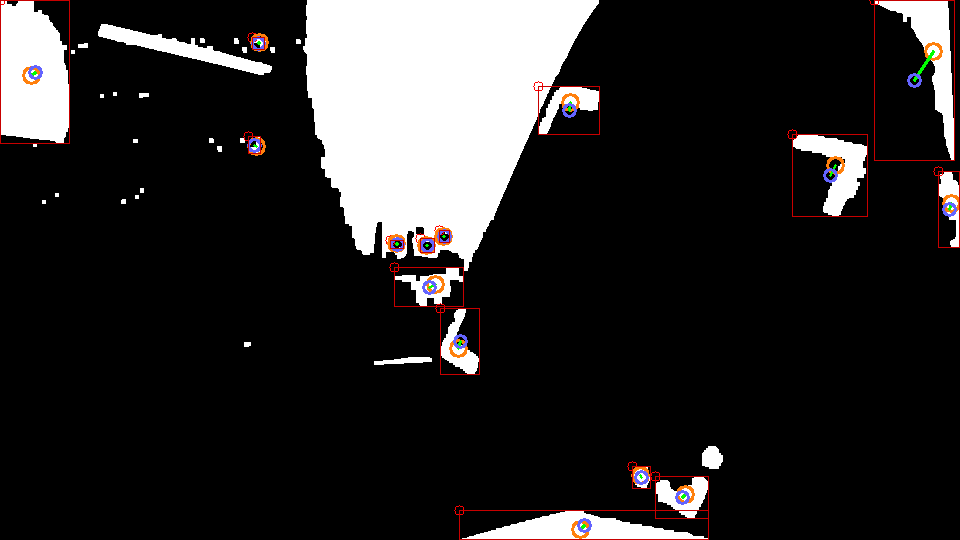
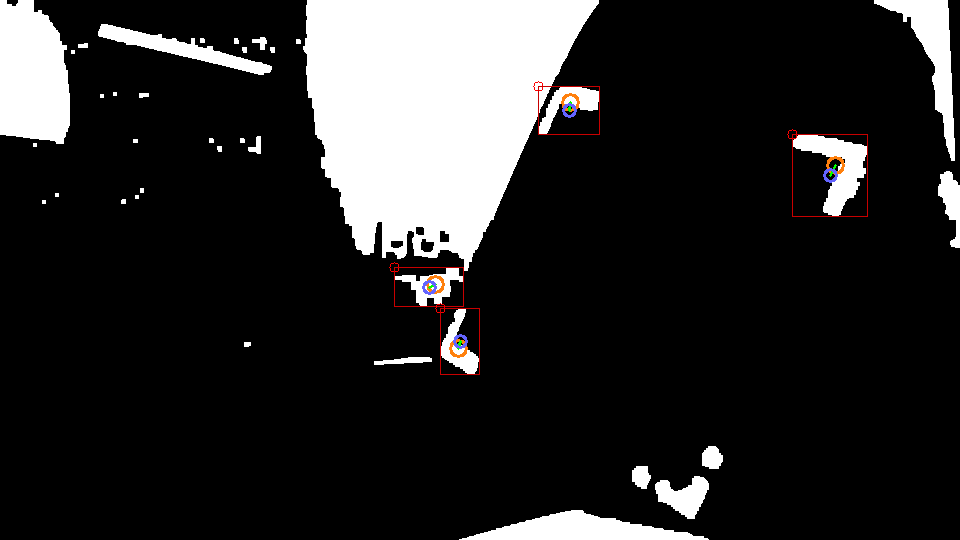
Updates - Drew

diff --git a/main/subsystems/nugget_receptacle/receptacle_pose.py b/main/subsystems/nugget_receptacle/receptacle_pose.py
@@ -158,9 +158,19 @@ def is_l_shape(contour, min_x_percent = 0.05, min_y_percent = 0.05, or_=False) -
         #print(f"x={center_x}, y={center_y}, cx={cx}, cy={cy}, x_size={w}, y_size={h}")
         print(f"x={center_x}, y={center_y}, cx is {percent_off_x*100 :.2f}% off, cy is {percent_off_y*100 :.2f}% off.")
 
-    is_l = (abs(percent_off_x)>min_x_percent) and (abs(percent_off_y)>min_y_percent) or (
-        (or_)
-        and ((abs(percent_off_x)>min_x_percent) or (abs(percent_off_y)>min_y_percent)))
+    is_l = (
+        #    (abs(percent_off_x)>0) 
+        #and (abs(percent_off_y)>0)
+         (abs(percent_off_x)>min_x_percent) 
+        and (abs(percent_off_y)>min_y_percent) 
+        or (
+            (or_)
+            and (
+                   (abs(percent_off_x)>min_x_percent) 
+                or (abs(percent_off_y)>min_y_percent)
+                )
+            )
+    )
     return is_l, percent_off_x, percent_off_y
 
 
@@ -176,7 +186,12 @@ def filter_contours(contours:list, screensize=(1920,1024), filter_l=False):
 
         # If contour is certain shape
         # (both dimensions > 8px, at least one dimension > 10px)
-        if (w>8 and h>8) and (w>10 or h>10) and (rect_area<max_rect_area) and (is_l_shape(contour, or_=True)[0] or not(filter_l)):
+        if (
+                (w>8 and h>8) 
+            and (w>10 or h>10) 
+            and (rect_area < max_rect_area) 
+            and (is_l_shape(contour, or_=True)[0] or not(filter_l))
+            ):
             contours_rtn.append(contour) # Add it to the return list
 
 
@@ -246,7 +261,38 @@ def draw_corners(img, corners, imgpts):
     img = cv2.line(img, corner, tuple(imgpts[2].ravel()), (0,0,255), 5)
     return img
 
-# Find the average pixel location and see how far that differs from the center of the overall bounding box
+
+def filter_n_contours(contours:list, n:int) -> list:
+    """ Filters out n number of contours for likely candidates of the four corners of the receptacle. """
+    if len(contours)==0: return [] # Prevent errors
+    
+    rtnlist = []
+    contour_sizes = []
+
+    for contour in contours:
+        x, y, w, h = cv2.boundingRect(contour)
+        contour_sizes.append(w*h)
+
+    for i in range(n):
+        try:
+            if len(contours)==0: break
+            biggest_contour = contours[contour_sizes.index(max(contour_sizes))]
+            rtnlist.append(biggest_contour)
+            del contours[contour_sizes.index(max(contour_sizes))]
+            contour_sizes.remove(max(contour_sizes))
+        
+        except IndexError: # If n < len(contours) we eventually hit an index error
+            break # Just return whatever we currently have
+
+        except ValueError as e:
+            print(f"Value Error, here is some debug info: n={n}, there are {len(contour_sizes)} sizes for {len(contours)} contours. contour_sizes={contour_sizes}, i={i}, rtnlist={rtnlist}")
+            raise e
+
+    assert len(rtnlist) <= n
+    return rtnlist
+
+
+
 
 def find_and_draw_contours(
     frame, frame_to_write_ontop_of, 
@@ -308,9 +354,6 @@ def find_and_draw_contours(
 
     virgin_contours_list = virgin_contours(contours_tree, hierarchy_tree)
     virgin_contours_list = filter_contours(virgin_contours_list, screensize=screensize, filter_l=False)
-    # Dark green circles for complex contour points
-    #for contour in virgin_contours_list:        
-    #    draw_contour_points(frame_to_write_ontop_of, contour,color=(0,80,0))
 
     # Simplify the contours - see https://docs.opencv.org/4.x/dd/d49/tutorial_py_contour_features.html
     copy_ = []
@@ -319,30 +362,35 @@ def find_and_draw_contours(
         copy_.append(simplify_contour(contour, n_corners=6))
         #TODO: also look into the Ramer–Douglas–Peucker algorithm for simplification
     
-    virgin_contours_list = copy_
+    virgin_contours_list = copy_.copy()
     del copy_
+
+    # Filter contours once more, but with L-shape filtering
+    #virgin_contours_list = filter_contours(virgin_contours_list, screensize=screensize, filter_l=True)
+
+    # Filter out the four corners
+    big_four = filter_n_contours(virgin_contours_list, n=4)
+
+    # Filter out the four corners??
+    virgin_contours_list = filter_n_contours(virgin_contours_list, n=4)
 
     # Do some visualization stuff
     if do_draw_contours:
         for contour in virgin_contours_list:
             # Thick red bounding boxes
-            cv2.rectangle(frame_to_write_ontop_of, cv2.boundingRect(contour), (0, 0, 200), 1) 
-            
+            cv2.rectangle(frame_to_write_ontop_of, cv2.boundingRect(contour), (0, 0, 200), 3) 
             #rect = cv2.minAreaRect(contour) # Rotated (for minimum area) rectangle, red
             #cv2.drawContours(frame_to_write_ontop_of,[np.intp(cv2.boxPoints(rect))],0,(100,100,100),1)
-            
             # Draw circles around the contour points
-            draw_contour_points(frame_to_write_ontop_of, contour,color=(0,200,0))
-
+            #draw_contour_points(frame_to_write_ontop_of, contour,color=(0,200,0))
         # Draw contours
         draw_contours(frame_to_write_ontop_of, virgin_contours_list,color=(255,249,130))
 
-    if save_intermediate:
-        cv2.imwrite(os.path.join(LOCAL_PATH,"fadc_2_virgin_contours_before_l_filter.png"), frame_to_write_ontop_of)
-        cv2.imwrite(os.path.join(LOCAL_PATH,"fadc_2_before_l_COM_Circles.png"), draw_center_of_mass_circles(frame.copy(), virgin_contours_list))
+    draw_center_of_mass_circles(frame_to_write_ontop_of, virgin_contours_list)
 
-    # Filter contours once more
-    virgin_contours_list = filter_contours(virgin_contours_list, screensize=screensize, filter_l=True)
+    #if save_intermediate:
+    #    cv2.imwrite(os.path.join(LOCAL_PATH,"fadc_2_virgin_contours_before_l_filter.png"), frame_to_write_ontop_of)
+    #    cv2.imwrite(os.path.join(LOCAL_PATH,"fadc_2_before_l_COM_Circles.png"), draw_center_of_mass_circles(frame.copy(), virgin_contours_list))
     
     if save_output:
         print(f" Found {len(contours_tree)} total contours.")
@@ -350,9 +398,10 @@ def find_and_draw_contours(
         #print("largest contour has ",len(contours_tree[highest_instance[0]]),"points")
         cv2.imwrite(os.path.join(LOCAL_PATH,"contours.png"), frame_to_write_ontop_of)
         cv2.imwrite(os.path.join(LOCAL_PATH,"COM_Circles.png"), draw_center_of_mass_circles(frame.copy(), virgin_contours_list))
+        cv2.imwrite(os.path.join(LOCAL_PATH,"big_four.png"), draw_center_of_mass_circles(frame_to_write_ontop_of.copy(), big_four))
 
     if write_l_debug_circles:
-        frame_to_write_ontop_of = draw_center_of_mass_circles(frame_to_write_ontop_of, virgin_contours_list)
+        draw_center_of_mass_circles(frame_to_write_ontop_of, virgin_contours_list)
 
 #endregion Contours Stuff
     
@@ -437,7 +486,7 @@ def analyze_frame(frame, save_output=False, save_raw=False, write_l_debug_circle
     
     new_frame = clean_image(filter_binarize(frame, save_output=save_output, save_raw=save_raw)[0])
     
-    find_and_draw_contours(new_frame, new_frame, save_output=save_output, screensize=screensize, write_l_debug_circles=write_l_debug_circles, save_intermediate=True)
+    find_and_draw_contours(new_frame, new_frame, save_output=save_output, screensize=screensize, write_l_debug_circles=write_l_debug_circles, save_intermediate=save_raw)
 
     return new_frame
 

diff --git a/main/main.py b/main/main.py
@@ -21,7 +21,7 @@ atexit.register(log.when_iteration_stops) # e.g. ctrl+C will trigger "when_itera
 for runtime.frame_number, runtime.color_image , runtime.depth_image in video_stream.frames():
 
     # TODO: Delete this before prod! This is for testing only, and we should find a better way to integrate nugget code.
-    #runtime.color_image = nugg_pose.analyze_frame(runtime.color_image, save_output=False, save_raw=False, write_l_debug_circles=True)
+    runtime.color_image = nugg_pose.analyze_frame(runtime.color_image, save_output=False, save_raw=False, write_l_debug_circles=False)
 
     if synchronized_debug: t1 = time_synchronized()
     model.when_frame_arrives() # Get the bounding boxes
